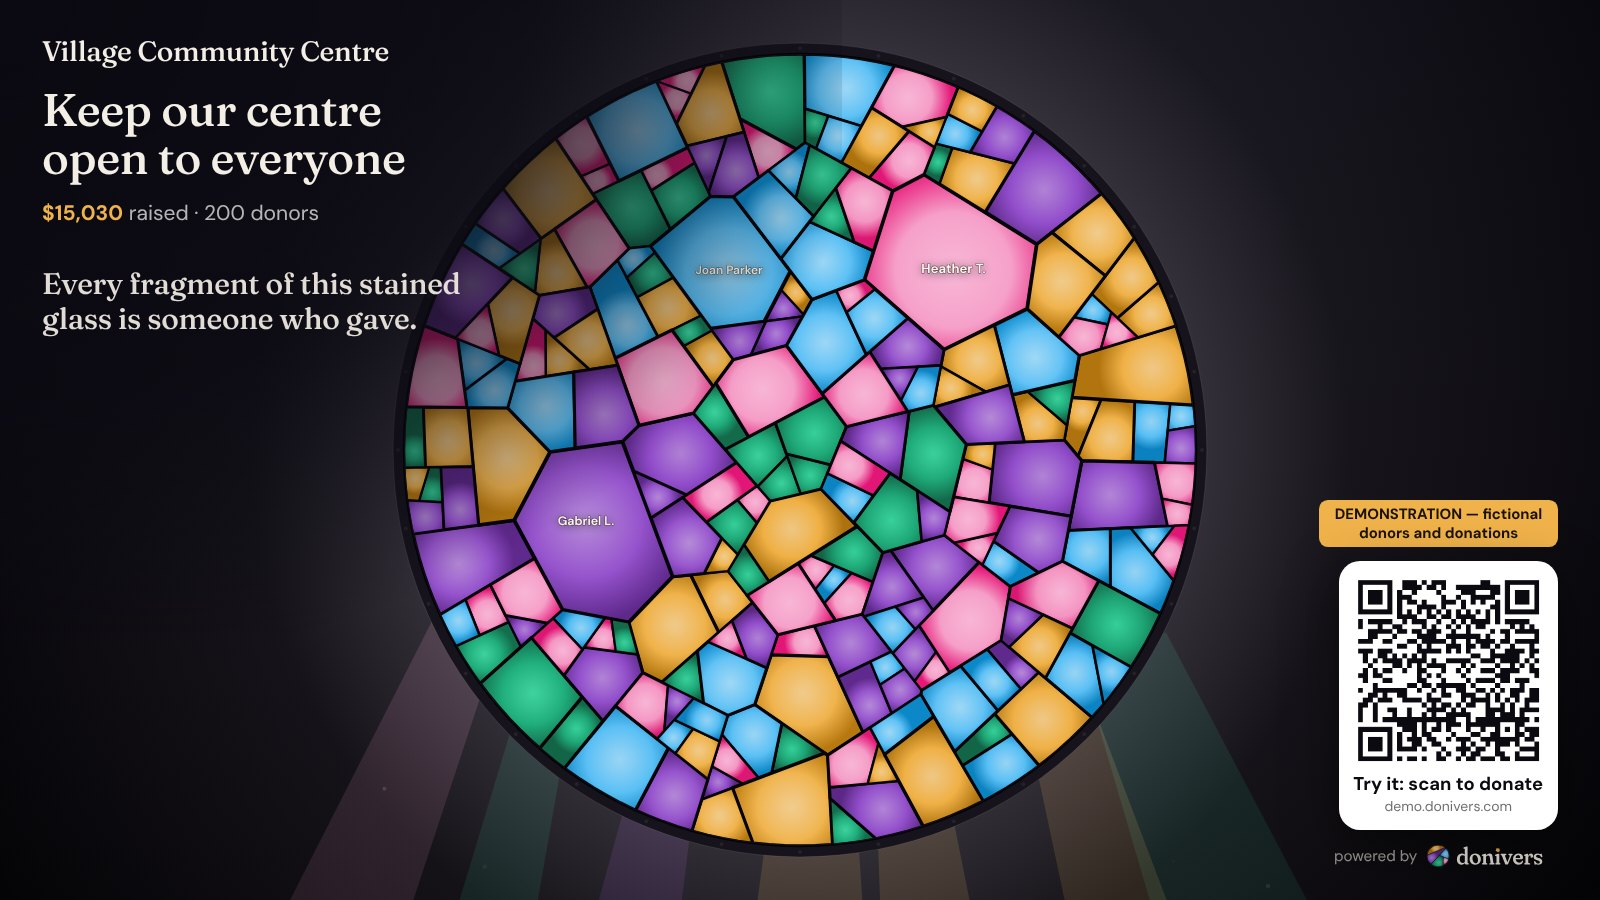
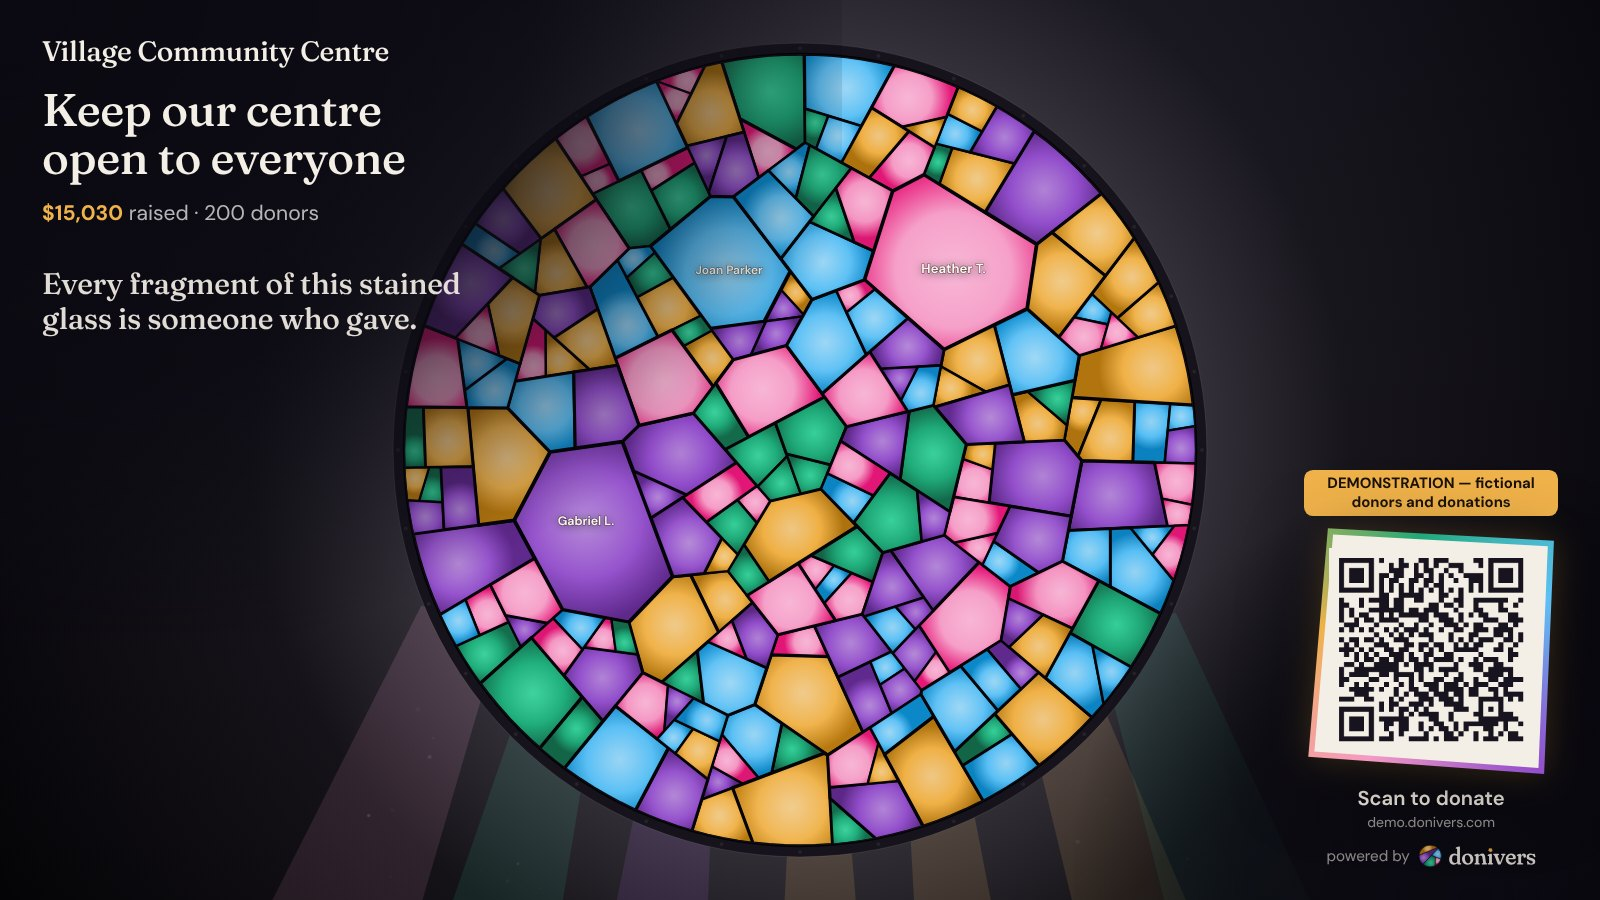
Grand écran : le QR sur un éclat de verre
Piste B choisie par Mika (25 nov.) : le blanc pur faisait tache sur l'écran
sombre.
- Code en carrés foncés sur fond crème, posé sur un éclat de verre un peu de
  travers, liseré des cinq verres de la palette ; marge de 2 modules.
- Légende, adresse et signature centrées dessous ; « Essayez : » retiré
  (« Scannez pour donner » partout ; clé qrLegendeDemo retirée).
- Voile sombre derrière le coin : la légende reste lisible sur le verre clair.
- Temps 2 : éclat agrandi et illuminé.
- Essai de lecture (décodeur OpenCV) sur rendus réels, fr et en, aux trois
  temps, jusqu'à 45 % de la taille : lu.

Claude-Session: https://claude.ai/code/session_01QrQzn61n3wrZehXqLFEXZA

diff --git a/app/ecran/page.tsx b/app/ecran/page.tsx
@@ -22,7 +22,7 @@ import { useSearchParams } from 'next/navigation'
 import QRCode from 'qrcode'
 import { useLocale, useTranslations } from 'next-intl'
 import { CONFIG } from '@/lib/config'
-import { FALLBACK_GLASS } from '@/lib/theme'
+import { DEFAULT_GLASSES, FALLBACK_GLASS } from '@/lib/theme'
 import Signature from '@/components/Signature'
 import EmptyVitrail from '@/components/vitrail/EmptyVitrail'
 import { QUOTES, type Locale } from '@/i18n/config'
@@ -75,6 +75,12 @@ const EMBED_POLL_MS = 60_000
 /** Lu une fois côté navigateur, pour le moteur (hors rendu React). */
 const isEmbed = () => typeof window !== 'undefined' && new URLSearchParams(window.location.search).has('embed')
 const GOLD = '#F0B24A'
+// Le code QR posé sur un éclat de verre : un quadrilatère un peu de travers, liseré des cinq verres de la palette, fond
+// crème (le blanc pur faisait tache sur l'écran sombre). Le code tient entièrement dans l'éclat, avec sa marge.
+const QR_LIGHT = '#F4EFE6'
+const QR_DARK = '#17141F'
+const QR_SHARD = 'polygon(8% 0%, 100% 5%, 96% 100%, 0% 93%)'
+const QR_RIM = `conic-gradient(from 210deg, ${['rose', 'ambre', 'jade', 'ciel', 'violet', 'rose'].map(id => DEFAULT_GLASSES.find(g => g.id === id)!.value).join(', ')})`
 // Démonstration : code de séance de cet écran (écran jumelé, lib/demo-screen.ts). Les dons d'essai faits par son QR
 // n'apparaissent que sur lui ; gardé dans l'onglet, il survit au rechargement périodique.
 const SCREEN_KEY = 'vitrail:ecran-seance'
@@ -779,7 +785,7 @@ export default function Ecran() {
     // Démonstration : le QR porte le code de séance de cet écran, pour que les dons d'essai y apparaissent
     const code = showcase ? screenCode() : null
     const url = publicLink(`/vitrail?don&src=ecran${code ? `&ecran=${code}` : ''}`, new URLSearchParams(window.location.search).get('url'))
-    QRCode.toDataURL(url, { margin: 1, width: 640, errorCorrectionLevel: 'M', color: { dark: '#0b0a10', light: '#ffffff' } })
+    QRCode.toDataURL(url, { margin: 2, width: 640, errorCorrectionLevel: 'M', color: { dark: QR_DARK, light: QR_LIGHT } })
       .then(d => {
         setQr(d)
         setTarget(base.replace(/^https?:\/\//, ''))
@@ -953,26 +959,30 @@ export default function Ecran() {
         </div>
       )}
 
-      {/* Le seul élément permanent, en bas à droite : le code QR (agrandi au temps 2), l'adresse, la signature de
-          Donivers dessous (toujours plus petite que l'organisme ; pas de lien : c'est un écran). L'état (démonstration,
-          connexion perdue) se range au-dessus, dans le même coin. */}
-      <div className="absolute" style={{ right: '2.4em', bottom: '1.8em', display: 'flex', flexDirection: 'column', alignItems: 'flex-end', gap: '0.8em' }}>
-        {snap?.showcase && <div style={{ background: GOLD, color: '#1A1208', fontWeight: 700, padding: '0.3em 0.8em', borderRadius: '0.6em', fontSize: '0.85em', maxWidth: '16em', textAlign: 'center' }}>{t('demonstration')}</div>}
-        {snap?.mode === 'demo' && <div style={{ background: GOLD, color: '#1A1208', fontWeight: 700, padding: '0.3em 0.8em', borderRadius: '0.6em', fontSize: '0.85em', maxWidth: '16em', textAlign: 'center' }}>{t('demo')}</div>}
-        {!online && <div className="muted" style={{ fontSize: '0.85em', maxWidth: '16em', textAlign: 'right' }}>{t('horsLigne')}</div>}
-        <div className="text-center" style={{ width: big ? '16em' : '12.5em', background: '#fff', color: '#0b0a10', borderRadius: '1.2em', padding: '0.8em', boxShadow: big ? '0 0 0 0.45em rgba(240,178,74,0.7), 0 0 4em rgba(240,178,74,0.35)' : '0 1em 3em rgba(0,0,0,0.5)', transition: 'width 1s ease, box-shadow 1s ease' }}>
+      {/* Le seul élément permanent, en bas à droite : le code QR posé sur un éclat de verre (agrandi et illuminé au temps
+          2), sa légende, l'adresse et la signature de Donivers, centrées dessous (toujours plus petite que l'organisme ; pas
+          de lien : c'est un écran). L'état (démonstration, connexion perdue) se range au-dessus, dans le même coin.
+          Le code reste en carrés foncés sur fond clair, avec sa marge : les points ronds et le code inversé (clair sur
+          sombre) se lisaient mal à l'essai (Mika, 25 nov.). */}
+      {/* Voile sombre derrière le coin : la légende reste lisible quand du verre clair et des noms passent dessous */}
+      <div className="pointer-events-none absolute right-0 bottom-0" style={{ width: '30em', height: '24em', background: 'radial-gradient(ellipse at 75% 100%, rgba(11,10,18,0.9) 0%, rgba(11,10,18,0.7) 40%, rgba(11,10,18,0) 72%)' }} />
+      <div className="absolute" style={{ right: '2.4em', bottom: '1.8em', display: 'flex', flexDirection: 'column', alignItems: 'center', gap: '0.7em', textAlign: 'center' }}>
+        {snap?.showcase && <div style={{ background: GOLD, color: '#1A1208', fontWeight: 700, padding: '0.3em 0.8em', borderRadius: '0.6em', fontSize: '0.85em', maxWidth: '17em' }}>{t('demonstration')}</div>}
+        {snap?.mode === 'demo' && <div style={{ background: GOLD, color: '#1A1208', fontWeight: 700, padding: '0.3em 0.8em', borderRadius: '0.6em', fontSize: '0.85em', maxWidth: '17em' }}>{t('demo')}</div>}
+        {!online && <div className="muted" style={{ fontSize: '0.85em', maxWidth: '17em' }}>{t('horsLigne')}</div>}
+        <div style={{ position: 'relative', width: big ? '17.5em' : '14em', aspectRatio: '1', transition: 'width 1s ease', filter: big ? 'drop-shadow(0 0 1.6em rgba(240,178,74,0.55))' : 'drop-shadow(0 0 1em rgba(240,178,74,0.22)) drop-shadow(0 1em 2em rgba(0,0,0,0.5))' }}>
+          <div style={{ position: 'absolute', inset: 0, clipPath: QR_SHARD, background: QR_RIM }} />
+          <div style={{ position: 'absolute', inset: '2.5%', clipPath: QR_SHARD, background: QR_LIGHT }} />
           {qr ? (
             // eslint-disable-next-line @next/next/no-img-element
-            <img src={qr} alt={t('qrAlt')} style={{ width: '100%', display: 'block' }} />
-          ) : (
-            <div style={{ aspectRatio: '1', background: '#eee' }} />
-          )}
-          <div style={{ fontWeight: 700, fontSize: big ? '1.25em' : '1.05em', marginTop: '0.4em', lineHeight: 1.2, transition: 'font-size 1s ease' }}>{snap?.showcase ? t('qrLegendeDemo') : t('qrLegende')}</div>
-          <div style={{ fontSize: '0.8em', opacity: 0.6, marginTop: '0.2em', wordBreak: 'break-all' }}>{target}</div>
+            <img src={qr} alt={t('qrAlt')} style={{ position: 'absolute', left: '8.6%', top: '7.9%', width: '82.9%', display: 'block' }} />
+          ) : null}
         </div>
-        <div style={{ alignSelf: 'center' }}>
-          <Signature height="1.4em" link={false} opacity={0.55} />
+        <div>
+          <div style={{ fontWeight: 600, fontSize: big ? '1.35em' : '1.15em', lineHeight: 1.2, color: '#F4EFE6', transition: 'font-size 1s ease' }}>{t('qrLegende')}</div>
+          <div style={{ fontSize: '0.8em', opacity: 0.55, marginTop: '0.25em', wordBreak: 'break-all' }}>{target}</div>
         </div>
+        <Signature height="1.4em" link={false} opacity={0.55} />
       </div>
       <ScaleBadge style={{ left: '50%', top: 16, transform: 'translateX(-50%)' }} />
         </>
